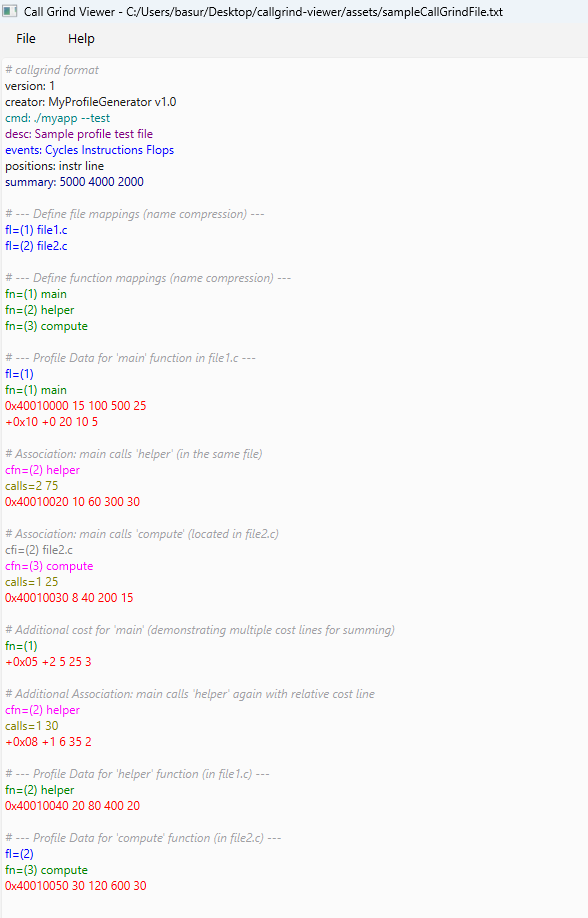
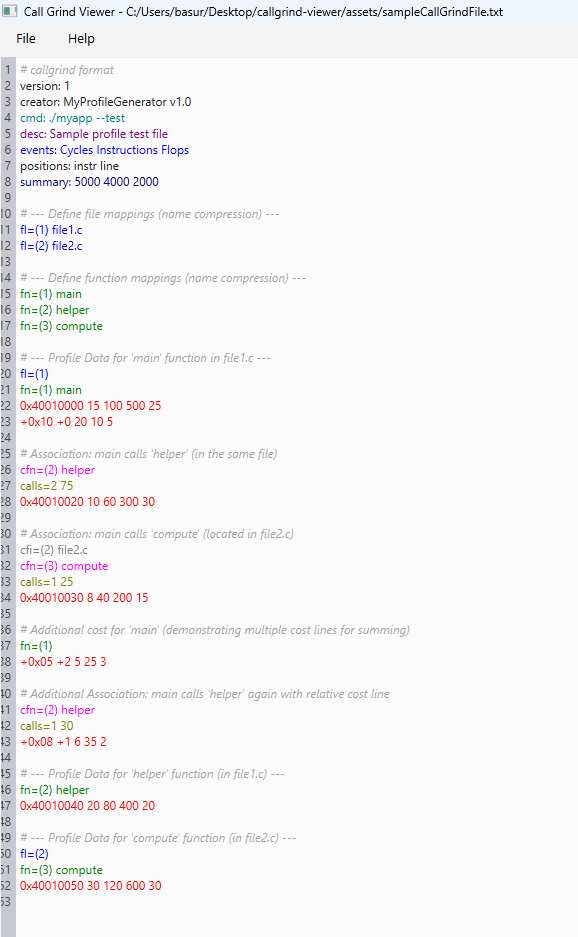
feat: add line numbering

Changed region(s): [[0.0, 0.0, 0.872, 1.0]]

diff --git a/textedit.cpp b/textedit.cpp
@@ -1,15 +1,60 @@
-// Copyright (C) 2017 The Qt Company Ltd.
-// SPDX-License-Identifier: LicenseRef-Qt-Commercial OR BSD-3-Clause
-
 #include "textedit.h"
-#include <QFile>
-#include <QFileInfo>
+#include "linenumbering.h"
 #include "callgrindhighlighter.h"
 
+#include <QFile>
+#include <QFileInfo>
+#include <QTextStream>
+#include <QResizeEvent>
+#include <QEvent>
+
 TextEdit::TextEdit(QWidget *parent)
-    : QTextEdit(parent)
+    : QPlainTextEdit(parent)
 {
     setReadOnly(true);
+
+    // line number area widget and install event filter
+    lineNumberArea = new QWidget(this);
+    lineNumberArea->installEventFilter(this);
+
+    // signals to update the line number area
+    connect(this, &QPlainTextEdit::blockCountChanged,
+            this, &TextEdit::updateLineNumberAreaWidth);
+    connect(this, &QPlainTextEdit::updateRequest,
+            this, &TextEdit::updateLineNumberArea);
+
+    updateLineNumberAreaWidth(0);
+}
+
+int TextEdit::lineNumberAreaWidth() {
+    return LineNumberHelper::calculateLineNumberAreaWidth(this);
+}
+
+void TextEdit::updateLineNumberAreaWidth(int /* newBlockCount */) {
+    LineNumberHelper::updateLineNumberAreaWidth(this, lineNumberArea);
+}
+
+void TextEdit::updateLineNumberArea(const QRect &rect, int dy) {
+    LineNumberHelper::updateLineNumberArea(this, lineNumberArea, rect, dy);
+}
+
+void TextEdit::resizeEvent(QResizeEvent *event) {
+    QPlainTextEdit::resizeEvent(event);
+    QRect cr = contentsRect();
+    lineNumberArea->setGeometry(QRect(cr.left(), cr.top(),
+                                      lineNumberAreaWidth(), cr.height()));
+}
+
+bool TextEdit::eventFilter(QObject *obj, QEvent *event) {
+    if (obj == lineNumberArea && event->type() == QEvent::Paint) {
+        lineNumberAreaPaintEvent(static_cast<QPaintEvent *>(event));
+        return true;
+    }
+    return QPlainTextEdit::eventFilter(obj, event);
+}
+
+void TextEdit::lineNumberAreaPaintEvent(QPaintEvent *event) {
+    LineNumberHelper::paintLineNumbers(this, lineNumberArea, event);
 }
 
 void TextEdit::setContents(const QString &fileName)
@@ -18,16 +63,12 @@ void TextEdit::setContents(const QString &fileName)
     srcUrl = QUrl::fromLocalFile(fi.absoluteFilePath());
     QFile file(fileName);
     if (file.open(QIODevice::ReadOnly)) {
-        const QString data(QString::fromUtf8(file.readAll()));
-        if (fileName.endsWith(".html"))
-            setHtml(data);
-        else {
-            setPlainText(data);
-            // Check for callgrind file
-            if (data.contains("# callgrind format")) {
-                new CallgrindHighlighter(document());
-            }
-        }
+        QTextStream in(&file);
+        QString data = in.readAll();
+        setPlainText(data);
+        // Detect Callgrind files
+        if (data.contains("# callgrind format"))
+            new CallgrindHighlighter(document());
     }
     emit fileNameChanged(fileName);
 }
@@ -39,5 +80,5 @@ QVariant TextEdit::loadResource(int type, const QUrl &name)
         if (file.open(QIODevice::ReadOnly))
             return file.readAll();
     }
-    return QTextEdit::loadResource(type, name);
+    return QPlainTextEdit::loadResource(type, name);
 }

diff --git a/linenumbering.cpp b/linenumbering.cpp
@@ -1,0 +1,64 @@
+#include "linenumbering.h"
+#include "textedit.h"
+#include <QPainter>
+#include <QTextBlock>
+#include <QFontMetrics>
+#include <algorithm>
+
+int LineNumberHelper::calculateLineNumberAreaWidth(TextEdit *editor) {
+    int digits = 1;
+    int max = std::max(1, editor->blockCount());
+    while (max >= 10) {
+        max /= 10;
+        ++digits;
+    }
+    int space = 3 + editor->fontMetrics().horizontalAdvance(QLatin1Char('9')) * digits;
+    return space;
+}
+
+void LineNumberHelper::updateLineNumberAreaWidth(TextEdit *editor, QWidget *lineNumberArea) {
+    Q_UNUSED(lineNumberArea);
+    editor->setViewportMargins(calculateLineNumberAreaWidth(editor), 0, 0, 0);
+}
+
+void LineNumberHelper::updateLineNumberArea(TextEdit *editor, QWidget *lineNumberArea, const QRect &rect, int dy) {
+    if (dy)
+        lineNumberArea->scroll(0, dy);
+    else
+        lineNumberArea->update(0, rect.y(), lineNumberArea->width(), rect.height());
+
+    if (rect.contains(editor->viewport()->rect()))
+        updateLineNumberAreaWidth(editor, lineNumberArea);
+}
+
+void LineNumberHelper::paintLineNumbers(TextEdit *editor, QWidget *lineNumberArea, QPaintEvent *event) {
+    QPainter painter(lineNumberArea);
+    painter.setRenderHint(QPainter::Antialiasing, true);
+
+    // background color
+    QColor backgroundColor(200, 200, 210);
+    painter.fillRect(event->rect(), backgroundColor);
+
+    // text color for line numbers
+    QColor textColor(70, 70, 70);
+    painter.setPen(textColor);
+
+    QTextBlock block = editor->firstVisibleBlock();
+    int blockNumber = block.blockNumber();
+    int top = static_cast<int>(editor->blockBoundingGeometry(block)
+                                   .translated(editor->contentOffset()).top());
+    int bottom = top + static_cast<int>(editor->blockBoundingRect(block).height());
+
+    while (block.isValid() && top <= event->rect().bottom()) {
+        if (block.isVisible() && bottom >= event->rect().top()) {
+            QString number = QString::number(blockNumber + 1);
+            painter.drawText(0, top, lineNumberArea->width() - 5,
+                             editor->fontMetrics().height(),
+                             Qt::AlignRight, number);
+        }
+        block = block.next();
+        top = bottom;
+        bottom = top + static_cast<int>(editor->blockBoundingRect(block).height());
+        ++blockNumber;
+    }
+}

diff --git a/textedit.h b/textedit.h
@@ -1,26 +1,37 @@
-// Copyright (C) 2017 The Qt Company Ltd.
-// SPDX-License-Identifier: LicenseRef-Qt-Commercial OR BSD-3-Clause
-
 #ifndef TEXTEDIT_H
 #define TEXTEDIT_H
 
-#include <QTextEdit>
+#include <QPlainTextEdit>
 #include <QUrl>
 
-class TextEdit : public QTextEdit
-{
-    Q_OBJECT
+class LineNumberHelper;
 
+class TextEdit : public QPlainTextEdit {
+    Q_OBJECT
 public:
-    TextEdit(QWidget *parent = nullptr);
+    explicit TextEdit(QWidget *parent = nullptr);
     void setContents(const QString &fileName);
+    QVariant loadResource(int type, const QUrl &name) override;
+    int lineNumberAreaWidth();
 
 signals:
     void fileNameChanged(const QString &fileName);
 
+protected:
+    void resizeEvent(QResizeEvent *event) override;
+    bool eventFilter(QObject *obj, QEvent *event) override;
+
+public slots:
+    void updateLineNumberAreaWidth(int newBlockCount);
+    void updateLineNumberArea(const QRect &rect, int dy);
+    void lineNumberAreaPaintEvent(QPaintEvent *event);
+
 private:
-    QVariant loadResource(int type, const QUrl &name) override;
     QUrl srcUrl;
+    QWidget *lineNumberArea;
+
+    // LineNumberHelper access to protected members
+    friend class LineNumberHelper;
 };
 
-#endif
+#endif // TEXTEDIT_H

diff --git a/mainwindow.cpp b/mainwindow.cpp
@@ -51,9 +51,8 @@ void MainWindow::updateWindowTitle(const QString &fileName)
 void MainWindow::about()
 {
     QMessageBox::about(this, tr("About Call Grind Viewer"),
-                       tr("This example demonstrates how to use\n"
-                          "Qt Assistant as help system for your\n"
-                          "own application."));
+                       tr("A lightweight Qt-based\n"
+                          "text viewer for Callgrind files"));
 }
 
 //! [3]
@@ -83,7 +82,7 @@ void MainWindow::createActions()
 
     clearAct = new QAction(tr("&Clear"), this);
     clearAct->setShortcut(tr("Ctrl+C"));
-    connect(clearAct, &QAction::triggered, textViewer, &QTextEdit::clear);
+    connect(clearAct, &QAction::triggered, textViewer, &QPlainTextEdit::clear);
 
     exitAct = new QAction(tr("E&xit"), this);
     exitAct->setShortcuts(QKeySequence::Quit);

diff --git a/linenumbering.h b/linenumbering.h
@@ -1,0 +1,18 @@
+#ifndef LINENUMBERING_H
+#define LINENUMBERING_H
+
+#include <QPlainTextEdit>
+#include <QWidget>
+#include <QPaintEvent>
+
+class TextEdit;
+
+class LineNumberHelper {
+public:
+    static int calculateLineNumberAreaWidth(TextEdit *editor);
+    static void updateLineNumberAreaWidth(TextEdit *editor, QWidget *lineNumberArea);
+    static void updateLineNumberArea(TextEdit *editor, QWidget *lineNumberArea, const QRect &rect, int dy);
+    static void paintLineNumbers(TextEdit *editor, QWidget *lineNumberArea, QPaintEvent *event);
+};
+
+#endif // LINENUMBERING_H
